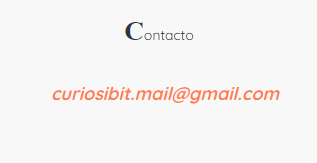
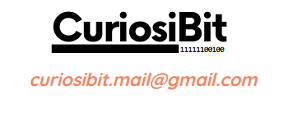
Actualización de estilo

Changed region(s): [[0.1536, 0.0714, 0.7986, 0.4286], [0.0922, 0.5238, 0.8908, 0.7143]]

diff --git a/proyectos.html b/proyectos.html
@@ -32,101 +32,107 @@
 
 <main>
 
+
+    
   
-    <p class="parrafo2" style="margin-bottom: 15px;">Mis proyectos.</p>
-    <p class="parrafo" style="margin-bottom: 15px;">Algunos están activos y otros no, pero todos tienen una pequeña reseña.</p>
-
-    <div class="dataframe">
-        <p class="title">Words!</p>
-        <p class="parrafo">Es un simple juego de palabras basado en el 'ahorcado', pero con definciones.</p>
-        <p class="parrafo">Tiene versiones en inglés y español.</p>
-        <p class="parrafot">Vanilla JS  - Sprites </p>
-        <a  class="btn" href="https://rom1na.github.io/words/" target="_blank" rel="noopener noreferrer">Visitar</a>
+            <p class="parrafo2" style="margin-bottom: 15px;">Mis proyectos.</p>
+            <p class="parrafo" style="margin-bottom: 15px;">Algunos están activos y otros no, pero todos tienen una pequeña reseña.</p>
     
-    </div>
-
-    <div class="dataframe">
-        <p class="title">Trivia</p>
-        <p class="parrafo">Es una estructura que permite hacer un conjunto de preguntas</p>
-        <p class="parrafo">La diferencia es que las preguntas usan como fuente de datos un archivo de hoja de cálculo alojado en Drive.Esto permite a un usuario modificar el contenido del sitio a través de la edición de un tipo de archivo mucho más familiar</p>
-        <p class="parrafo">Este proyecto aún está en desarrollo, por eso sólo tiene un grupo de preguntas, las respuestas puede elegirse varias veces y sólo se avanza haciendo click en el ícono de flecha</p>
-        <p class="parrafot">React - Vite - Vercel  </p>
-        <a  class="btn" href="https://lingua-studio.vercel.app/" target="_blank" rel="noopener noreferrer">Visitar</a>
     
-    </div>
+       
+            <div class="dataframe">
+                <p class="title">Words!</p>
+                <p class="parrafo">Es un simple juego de palabras basado en el 'ahorcado', pero con definciones.</p>
+                <p class="parrafo">Tiene versiones en inglés y español.</p>
+                <p class="parrafot">Vanilla JS  - Sprites </p>
+                <a  class="btn" href="https://rom1na.github.io/words/" target="_blank" rel="noopener noreferrer">Visitar</a>
+            
+            </div>
+
+            <div class="dataframe">
+                <p class="title">Trivia</p>
+                <p class="parrafo">Es una estructura que permite hacer un conjunto de preguntas</p>
+                <p class="parrafo">La diferencia es que las preguntas usan como fuente de datos un archivo de hoja de cálculo alojado en Drive.Esto permite a un usuario modificar el contenido del sitio a través de la edición de un tipo de archivo mucho más familiar</p>
+                <p class="parrafo">Este proyecto aún está en desarrollo, por eso sólo tiene un grupo de preguntas, las respuestas puede elegirse varias veces y sólo se avanza haciendo click en el ícono de flecha</p>
+                <p class="parrafot">React - Vite - Vercel  </p>
+                <a  class="btn" href="https://lingua-studio.vercel.app/" target="_blank" rel="noopener noreferrer">Visitar</a>
+            
+            </div>
 
 
 
-    <div class="dataframe">
-        <p class="title">Donde Ba</p>
-        <p class="parrafo">Usando los datos abiertos de la Ciudad de Buenos Aires y OpenStreetMap, desarrollé un buscador de lugares de interés. </p>
-        <p class="parrafo">Lamentablemente, la información ya no está disponible a través de una API y la misma puede estar desactualizada  </p>
-        <p class="parrafo"> De todas maneras, me resultó útil para desarrollar esta idea</p> 
-        <p class="parrafot">React - Vite - Vercel - JSON - OpenStreetMap</p>
 
-        <a  class="btn" href="https://dondeba.vercel.app/" target="_blank" rel="noopener noreferrer"> Visitar</a>
+
+            <div class="dataframe">
+                <p class="title">Donde Ba</p>
+                <p class="parrafo">Usando los datos abiertos de la Ciudad de Buenos Aires y OpenStreetMap, desarrollé un buscador de lugares de interés. </p>
+                <p class="parrafo">Lamentablemente, la información ya no está disponible a través de una API y la misma puede estar desactualizada  </p>
+                <p class="parrafo"> De todas maneras, me resultó útil para desarrollar esta idea</p> 
+                <p class="parrafot">React - Vite - Vercel - JSON - OpenStreetMap</p>
+
+                <a  class="btn" href="https://dondeba.vercel.app/" target="_blank" rel="noopener noreferrer"> Visitar</a>
+            
+            </div>
+
+            
+
+            
+            <div class="dataframe">
+                <p class="title">ReactFilms</p>
+                <p class="parrafo">Este proyecto fue un trabajo práctico de mi capacitación en React.</p>
+                <p class="parrafo">Personalmente, considero que le falta un montón en términos de diseño y css ( ni siquiera es responsive), pero la información y usabilidad me gusta mucho, y mi idea es mejorarlo en un futuro cercano a nivel UX/UI y escalar la información sobre series y programas de tv ya que la api desde donde extraigo la información es gigante.</p>
+                <p class="parrafo"> El ingreso es a través de un 'pseudo' formulario, no es necesaria ninguna contraseña y puede utilizarse cualquier nombre de usuario</p>   
+                <p class="parrafo"> La finalidad de ese paso es solamente crear un nombre para un json en el localStorage y así almacenar las peliculas favoritas del 'usuario'.El mismo se elimina al borrar el historial  y/o el localStorage.</p> 
+                <p class="parrafot">React - Vite - Vercel - OMDb API</p>
+
+                <a  class="btn" href="https://integrador-react-eight.vercel.app/" target="_blank" rel="noopener noreferrer"> Visitar</a>
+            
+            </div>
+
+
+            <div class="dataframe">
+                <p class="title">Los Colectivos en Vivo</p>
+                <p class="parrafo">Usando la Api de transporte público de la Ciudad de Buenos Aires, esta aplicación informaba en tiempo real sobre la ubicación de paradas y unidades de las diferentes líneas de colectivos del AMBA.</p>
+                <p class="parrafo">En Diciembre de 2021, la api dejó de funcionar, y con ella, la aplicación. </p>
+                <p class="parrafo">Me encantaría que vuelva a estar online correctamente para desarrollar una versión de Navegador,con muchas más features.</p> 
+                <p class="parrafot">Android - Java</p>
+
+                <a  class="btn" href="https://curiosibit.blogspot.com/2020/07/" target="_blank" rel="noopener noreferrer"> Ver más información en el blog</a>
+            
+            </div>
+
+
+
+            <div class="dataframe">
+                <p class="title">Datos Ba</p>
+                <p class="parrafo">En 2020, la Ciudad de Buenos Aires tenia una Api de datos abiertos con todo tipo de información.Elegí los que consideré relevantes y desarrollé una app con georreferenciación.</p>
+                <p class="parrafo">Posteriormente, migraron a un sistema que sólo permite descargar la información en forma de json. </p>
+                <p class="parrafo">Como no se justificaba el desarrollo y  mantenimiento de un back end propio, la app quedó desactivaba. Tiempo después desarrollé una opción para Navegador llamada Donde Ba.</p> 
+                <p class="parrafot">Android - Java</p>
+
+                <a  class="btn" href="https://curiosibit.blogspot.com/2020/02/datosba.html" target="_blank" rel="noopener noreferrer"> Ver más información en el blog</a>
+            
+            </div>
+
+
+            <div class="dataframe">
+                <p class="title">Ubicate</p>
+                <p class="parrafo">Mi primer experiencia en Android. Decidí ir por un opción libre de depencias externas -apis  o  back ends de Base de Datos-.</p>
+                <p class="parrafo">Simplemente te permitía guardar una ubicación (latitud y logitud) en la memoria del telefono, haciendo un lista.Me pareció de utilidad para recordar donde  se había estacionado un auto, o la ubicación de un negocio, por ejemplo.</p>
+                <p class="parrafo">Pero las reglas del playStore cambiaron y se comenzó a requerir una  politica de Privacidad para la utlización los datos de ubicación, y al no tener conocimiento legal, decidí sacar la app de la tienda.</p> 
+                <p class="parrafot">Android - Java</p>
+
+                <a  class="btn" href="https://curiosibit.blogspot.com/2020/02/primera-entrada.html" target="_blank" rel="noopener noreferrer"> Ver más información en el blog</a>
+            
+            </div>
+
+
+
+
+
     
-    </div>
 
     
-
-    
-    <div class="dataframe">
-        <p class="title">ReactFilms</p>
-        <p class="parrafo">Este proyecto fue un trabajo práctico de mi capacitación en React.</p>
-        <p class="parrafo">Personalmente, considero que le falta un montón en términos de diseño y css ( ni siquiera es responsive), pero la información y usabilidad me gusta mucho, y mi idea es mejorarlo en un futuro cercano a nivel UX/UI y escalar la información sobre series y programas de tv ya que la api desde donde extraigo la información es gigante.</p>
-        <p class="parrafo"> El ingreso es a través de un 'pseudo' formulario, no es necesaria ninguna contraseña y puede utilizarse cualquier nombre de usuario</p>   
-        <p class="parrafo"> La finalidad de ese paso es solamente crear un nombre para un json en el localStorage y así almacenar las peliculas favoritas del 'usuario'.El mismo se elimina al borrar el historial  y/o el localStorage.</p> 
-        <p class="parrafot">React - Vite - Vercel - OMDb API</p>
-
-        <a  class="btn" href="https://integrador-react-eight.vercel.app/" target="_blank" rel="noopener noreferrer"> Visitar</a>
-    
-    </div>
-
-
-    <div class="dataframe">
-        <p class="title">Los Colectivos en Vivo</p>
-        <p class="parrafo">Usando la Api de transporte público de la Ciudad de Buenos Aires, esta aplicación informaba en tiempo real sobre la ubicación de paradas y unidades de las diferentes líneas de colectivos del AMBA.</p>
-        <p class="parrafo">En Diciembre de 2021, la api dejó de funcionar, y con ella, la aplicación. </p>
-        <p class="parrafo">Me encantaría que vuelva a estar online correctamente para desarrollar una versión de Navegador,con muchas más features.</p> 
-        <p class="parrafot">Android - Java</p>
-
-        <a  class="btn" href="https://curiosibit.blogspot.com/2020/07/" target="_blank" rel="noopener noreferrer"> Ver más información en el blog</a>
-    
-    </div>
-
-
-
-    <div class="dataframe">
-        <p class="title">Datos Ba</p>
-        <p class="parrafo">En 2020, la Ciudad de Buenos Aires tenia una Api de datos abiertos con todo tipo de información.Elegí los que consideré relevantes y desarrollé una app con georreferenciación.</p>
-        <p class="parrafo">Posteriormente, migraron a un sistema que sólo permite descargar la información en forma de json. </p>
-        <p class="parrafo">Como no se justificaba el desarrollo y  mantenimiento de un back end propio, la app quedó desactivaba. Tiempo después desarrollé una opción para Navegador llamada Donde Ba.</p> 
-        <p class="parrafot">Android - Java</p>
-
-        <a  class="btn" href="https://curiosibit.blogspot.com/2020/02/datosba.html" target="_blank" rel="noopener noreferrer"> Ver más información en el blog</a>
-    
-    </div>
-
-
-    <div class="dataframe">
-        <p class="title">Ubicate</p>
-        <p class="parrafo">Mi primer experiencia en Android. Decidí ir por un opción libre de depencias externas -apis  o  back ends de Base de Datos-.</p>
-        <p class="parrafo">Simplemente te permitía guardar una ubicación (latitud y logitud) en la memoria del telefono, haciendo un lista.Me pareció de utilidad para recordar donde  se había estacionado un auto, o la ubicación de un negocio, por ejemplo.</p>
-        <p class="parrafo">Pero las reglas del playStore cambiaron y se comenzó a requerir una  politica de Privacidad para la utlización los datos de ubicación, y al no tener conocimiento legal, decidí sacar la app de la tienda.</p> 
-        <p class="parrafot">Android - Java</p>
-
-        <a  class="btn" href="https://curiosibit.blogspot.com/2020/02/primera-entrada.html" target="_blank" rel="noopener noreferrer"> Ver más información en el blog</a>
-    
-    </div>
-
-
-
-
-
-    
-
-
     
    
 

diff --git a/style.css b/style.css
@@ -3,10 +3,17 @@
 /*Paleta*/
 
 
---fondo: #F8F8F8;
+--fondo: #242424;
+--nav: #ffff;
+--texto: #ffff;    
+--acento: #32353c;
+
+
+/* --fondo: #F8F8F8;
 --nav: #ffff;
 --texto: #121212;    
 --acento: #32353c;
+ */
 
 
 
@@ -27,7 +34,7 @@ nav {
     align-items: center;
     padding: 10px;
     background-color: var(--nav);
-    box-shadow: 0 4px 2px -2px gray;
+   /*  box-shadow: 0 4px 2px -2px gray; */
     
 }
 
@@ -41,7 +48,7 @@ nav {
 }
 
 .nav-links a {
-    color: var(--texto);
+    color: var(--acento);
     text-decoration: none;
     font-size: 14px;
     
@@ -71,7 +78,7 @@ nav {
     font-size: 1.7rem;
     font-family: 'Monospace';
     font-weight: bold;
-    color:var(--acento);
+    color:var(--texto);
   }
 .parrafot{
    text-align: right; 
@@ -106,7 +113,7 @@ nav {
 
 a.btn{
     background-color: var(--nav);
-    color: var(--texto);
+    color: var(--acento);
     padding: 10px 20px;
     margin: 5px;
     margin-top: 18px;
@@ -116,7 +123,7 @@ a.btn{
     font-size: 12px;
     text-decoration: none;
     font-weight: 700;
-    box-shadow: 0 4px 2px -2px gray;
+  /*   box-shadow: 0 4px 2px -2px gray; */
 
   }
 
@@ -184,12 +191,27 @@ body{
 main{
    margin-top: 2em;
    display: flex;
-   flex-direction: column;
+   flex-direction:column;
    align-items: center;
+
    
 
 
 }
+
+.contenedor{
+    display: flex;
+    flex-direction: row;
+    flex-wrap: wrap;
+    align-content: center;
+    justify-content: center;
+    gap: 10px;
+    width: 75%;
+      
+    
+
+}
+
 
 
 h1 {
@@ -217,6 +239,11 @@ h1 {
     margin: 3em;
     box-shadow: 0 4px 2px -2px gray;
    }
+
+  #cont{
+    border-radius: 10px;
+
+  } 
 
 
 

diff --git a/index.html b/index.html
@@ -33,7 +33,7 @@
 
     <p class="parrafo2">Hola!</p>
 
-    <p class="parrafo" style="width: 80%;">Mi nombre es Romina Pérez y decidí recopilar mis proyectos en un sólo lugar, para que sea más fácil acceder a ellos
+    <p class="parrafo" style="width: 65%;">Mi nombre es Romina Pérez y decidí recopilar mis proyectos en un sólo lugar, para que sea más fácil acceder a ellos
 
         Utilizo diferentes lenguajes y plataformas, porque luego de un tiempo de estar escribiendo código y desarrollando ideas,
         

diff --git a/contacto.html b/contacto.html
@@ -32,10 +32,9 @@
 
 <main>
 
-    <img src="./imgs/email.png" alt="email">
+    <img src="./imgs/email.png" alt="email" id="cont">
    
 
-    <img src="./imgs/logoB.png" alt="logo" id="logo">
     
    
 
